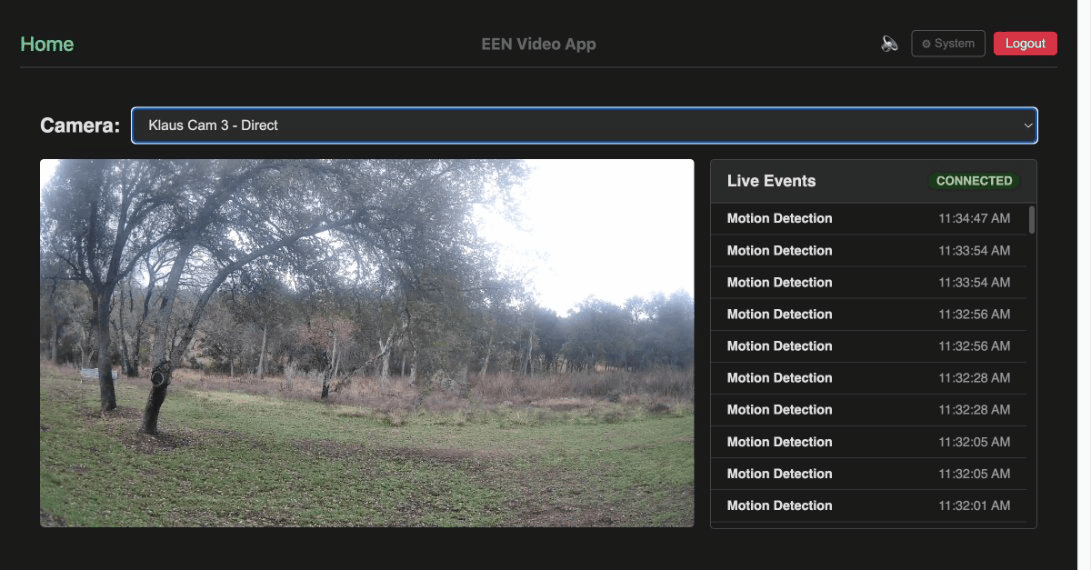
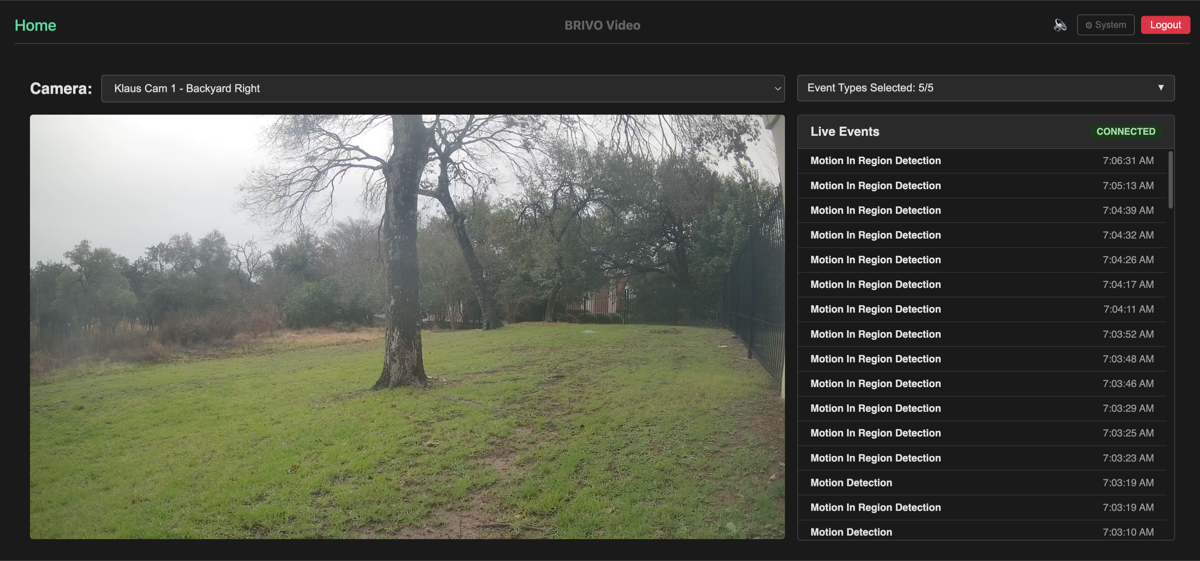
Update README and screenshot for BRIVO Video

diff --git a/README.md b/README.md
@@ -1,16 +1,18 @@
-# EEN Video Events
+# BRIVO Video
 
 A Vue 3 web application for viewing live HD camera video and real-time events from the Eagle Eye Networks (EEN) Video Platform, built with the [een-api-toolkit](https://github.com/klaushofrichter/een-api-toolkit).
 
-![EEN Video Events App](screenshot.png)
+![BRIVO Video App](screenshot.png)
 
 ## Features
 
 - **OAuth Authentication** -- Login via Eagle Eye Networks identity provider with token persistence across page refreshes
-- **Camera Selection** -- Dropdown to browse and select from all cameras in your EEN account
+- **Camera Selection** -- Dropdown to browse and select from all cameras in your EEN account, with selection persisted to localStorage
 - **Live HD Video** -- Full-resolution live video streaming using the EEN Live Video Web SDK
 - **Real-Time Event Feed** -- SSE (Server-Sent Events) subscription showing live events (motion detection, person detection, etc.) for the selected camera
-- **Event Preview Images** -- Click any event to view a recorded preview image from that timestamp in a modal
+- **Event Type Filter** -- Multi-select dropdown to filter which event types are subscribed, with select all/unselect all toggle and selection persisted to localStorage
+- **Event Preview Images** -- Click any event to view a recorded preview image from that timestamp in a modal, with bounding box overlays for detection events
+- **Live Bounding Boxes** -- Real-time bounding boxes flash on the live video when detection events arrive within 5 seconds
 - **Audio Notifications** -- Audible beep on each incoming event, with mute/unmute toggle
 - **Dark Mode** -- Three-way theme toggle (system / light / dark) persisted to localStorage
 - **Responsive Layout** -- Video and event list side-by-side on desktop, stacked on mobile
